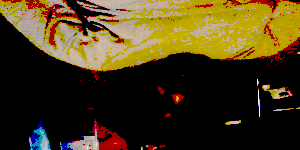
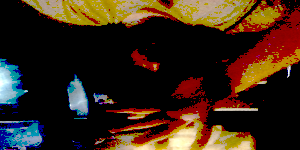
start css on maskEditor page

diff --git a/editors/maskEditor.html b/editors/maskEditor.html
@@ -7,38 +7,63 @@
 				background-color:black;
 			}
             #saveButton{
-                width:300px;
-                height:50px;
+                width:48.25%;
+                height:8%;
 				position: absolute;
-				top: 25px;
-				left: 340px;
+				top: 4%;
+				left: 50.25%;
+				background-color: grey;
             }
 			#pictureButton{
-                width:300px;
-                height:50px;
+                width:48.25%;
+                height:8%;
 				position: absolute;
-				top: 25px;
-				left: 25px;
+				top: 4%;
+				left: 1.25%;
+				background-color: grey;
             }
 			canvas{
-                width:300px;
-                height:300px;
+				width:48.25%;
+                height:70%;
 				position: absolute;
-				top: 95px;
-				left: 25px;
+				top: 14%;
+				left: 1.25%;
 				transform:scale(-1,1);
 			}
 			#chromaSlider{
-				width:622px;
-				top:410px;
+				width:97.5%;
+				height:12%;
+				top:85.5%;
+				left:1.%;
 				position: absolute;
+
+				border:2.5px solid grey;
+				-webkit-appearance: none;
+				display:inline;
+				outline: none;
+				opacity: 1;
+				-webkit-transition: .2s;
+				transition: opacity .2s;
+				margin:0px;
+				padding:0px;
+				background-color: darkgrey;
+			}
+			#chromaSlider::-webkit-slider-thumb{
+				-webkit-appearance: none;
+				appearance: none;
+				width: 40px;
+				height: 100%;
+				background: slategray;
+				cursor: pointer;
+				border-left:1px solid darkslategray;
+				border-right:1px solid darkslategray;
 			}
 			#video {
 				opacity: 1;
-                width:300px;
-                height:300px;
-				top:95px;
-				left:340px;
+				width:48.25%;
+                height:70%;
+				top: 14%;
+				left: 50.25%;
 				z-index:-1;
 				transform:scale(-1,1);
 				position:fixed;
@@ -55,7 +80,7 @@
 		<canvas id="mainCanvas" style="background-color: white;"></canvas>
 		<canvas id="iconImageCanvas" style="display: none;"></canvas>
 		<canvas id="maskImageCanvas" style="display: none;"></canvas>
-		<input id="chromaSlider" type="range" min="0" max="255" value="0"  onchange="setMainCanvasChroma(this.value, event)" onmousemove="setMainCanvasChroma(this.value, event)">
+		<input id="chromaSlider" type="range" min="0" max="255" value="0"  onchange="setMainCanvasChroma(event)" onmousemove="setMainCanvasChroma(event)">
 
 		<script>
 
@@ -196,6 +221,7 @@
 				initialMainCanvasImgData=context.getImageData(0, 0, 300, 150);
 				updateMaskImageCanvas();
 				updateIconImageCanvas();
+				setMainCanvasChroma({},true);
 			}
 
 			function updateMaskImageCanvas(){
@@ -220,8 +246,13 @@
 				initialIconCanvasImgData=context.getImageData(0, 0, 300, 150);
 			}
 		
-			function setMainCanvasChroma(thresh, event){
+			function setMainCanvasChroma(event, wasTriggeredViaTakePicture){
 				// console.log(event);
+				if(wasTriggeredViaTakePicture==true){
+					event.buttons=1;
+					console.log("updating chroma after taking picture")
+				}
+				thresh=document.getElementById("chromaSlider").value;
 				if(event.buttons!=0){
 
 					var canvas = document.getElementById("mainCanvas");
